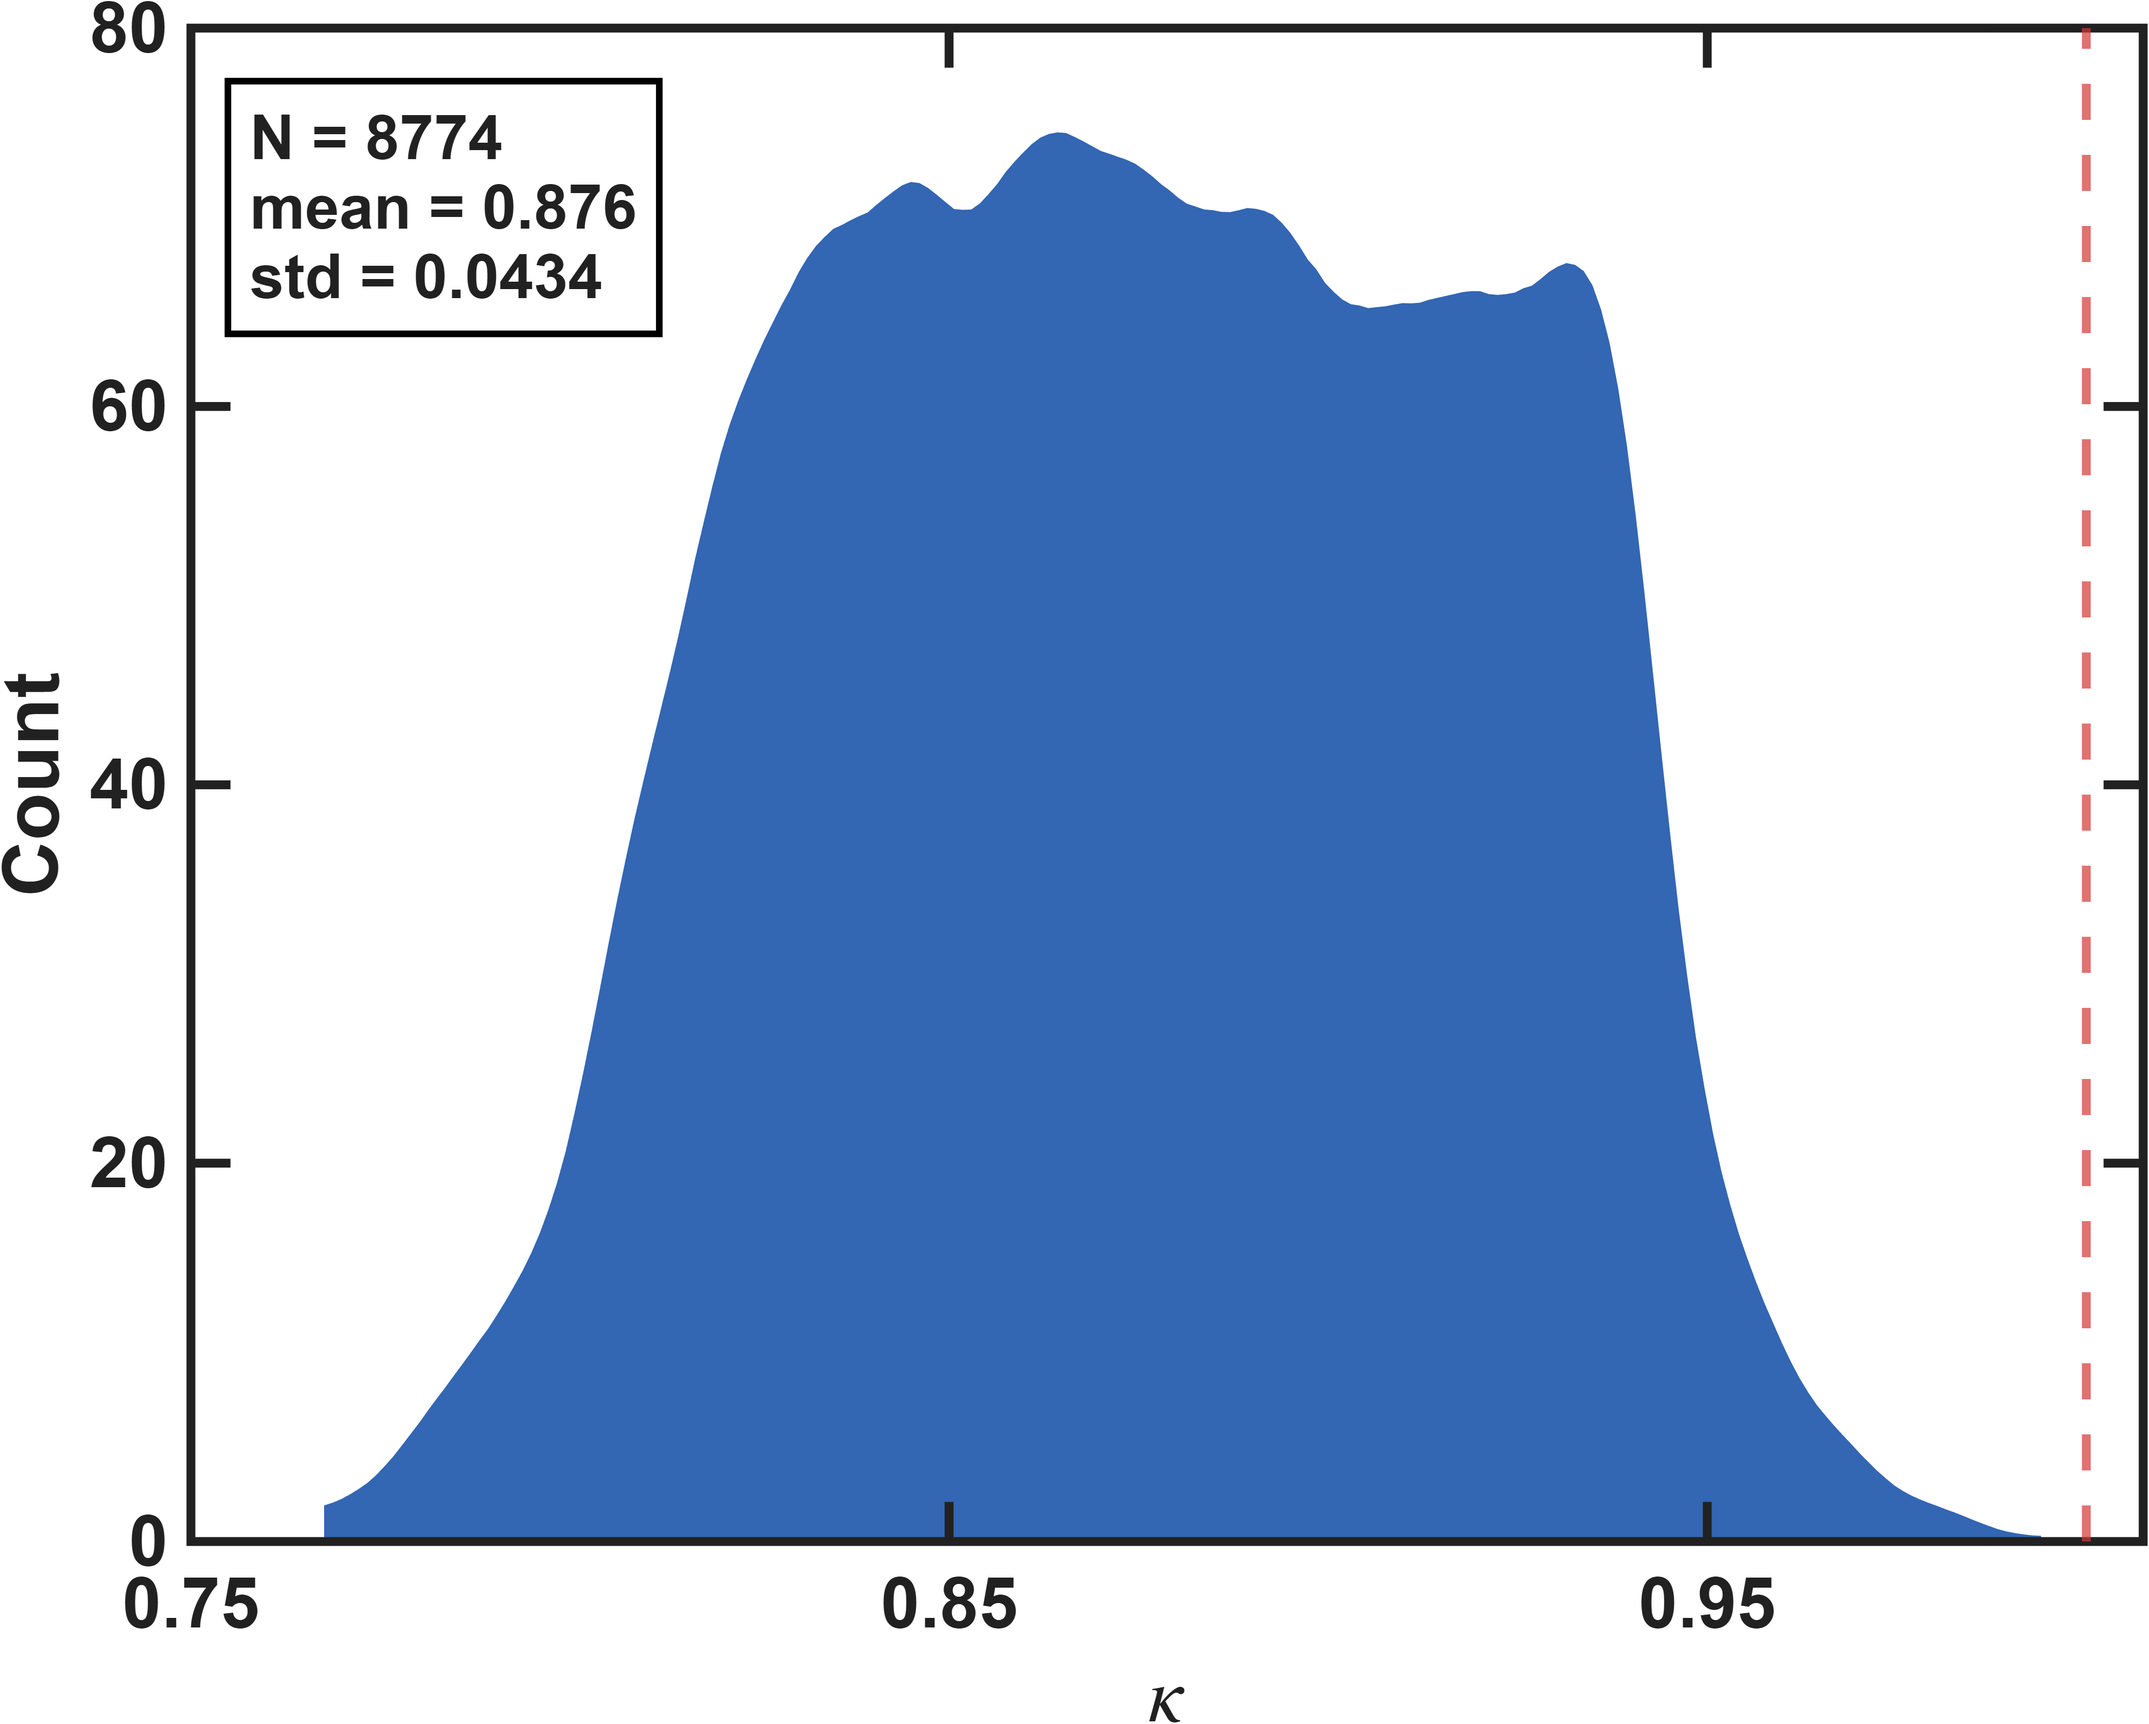
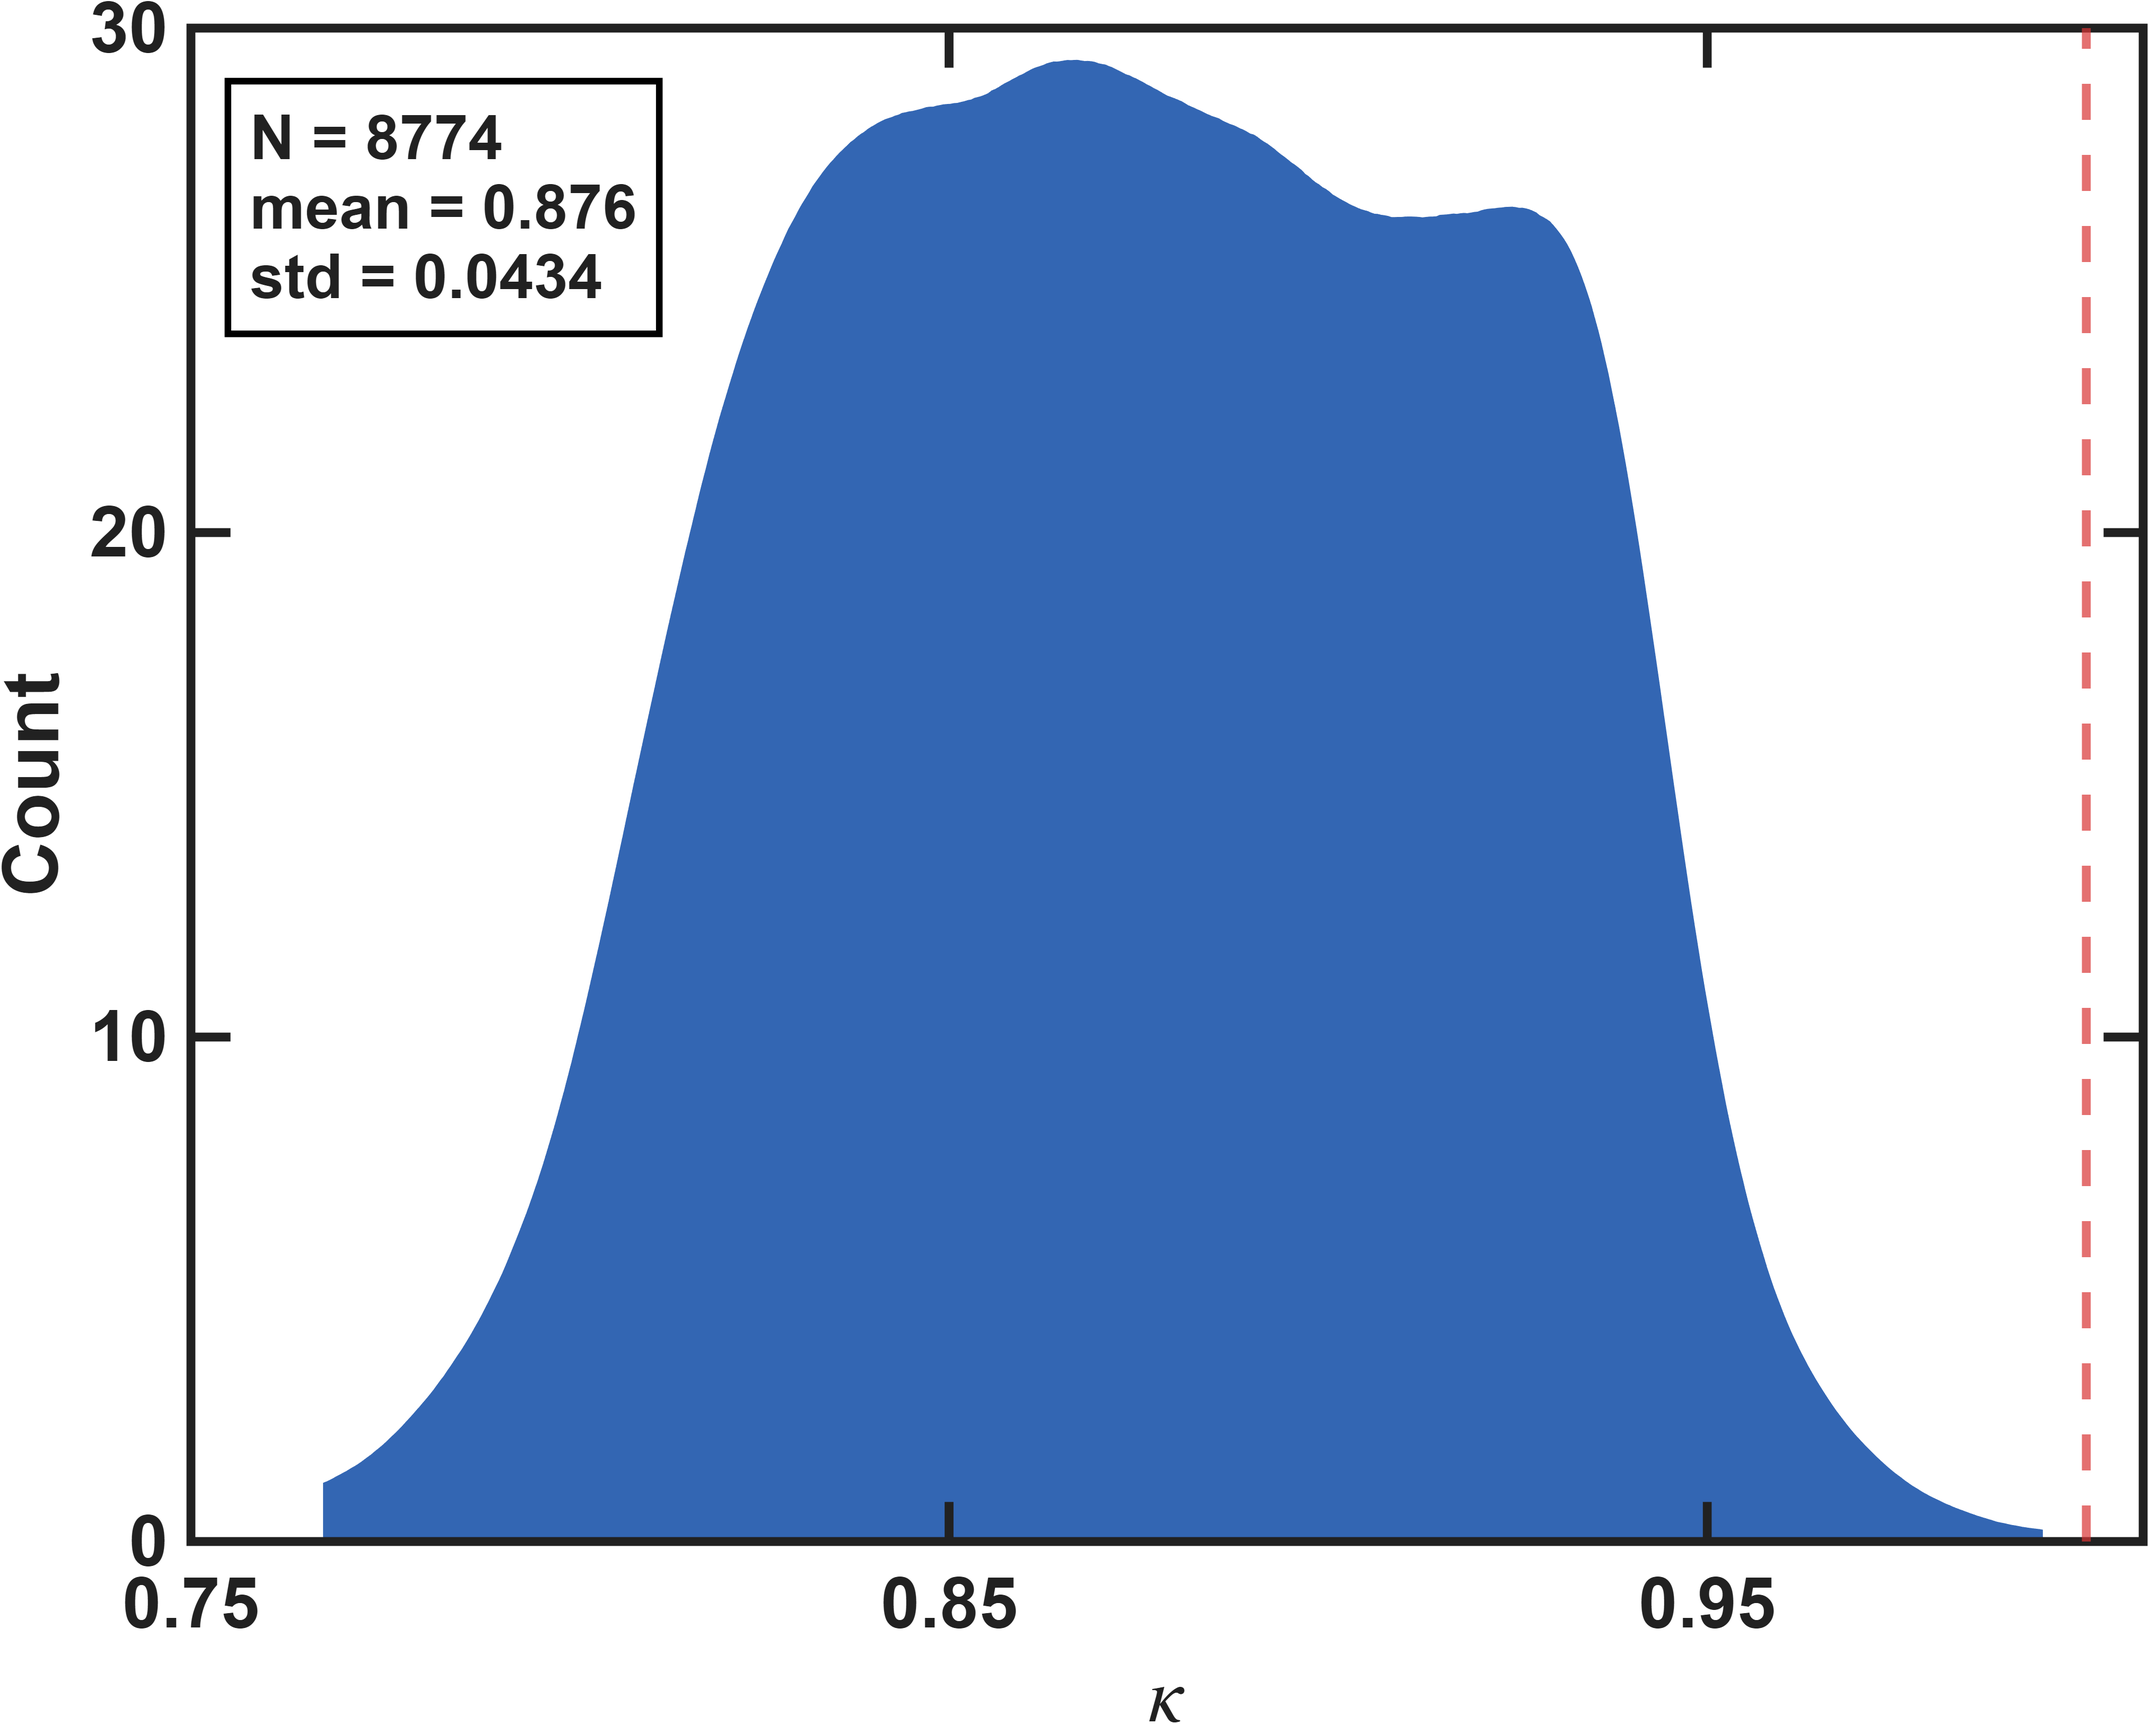
index plots: higher-res sampling + stronger smoothing (fully continuous, no visible discreteness)

diff --git a/magnetic_sim/ANSYS/main/matlab/long2016_hexapole_halfcut/Calibration_using_FEM_modeling/no_fix_dir/code/plot/plot_gain_iso_index.m b/magnetic_sim/ANSYS/main/matlab/long2016_hexapole_halfcut/Calibration_using_FEM_modeling/no_fix_dir/code/plot/plot_gain_iso_index.m
@@ -55,10 +55,10 @@ function render_hist(y, xlab, sunit, vline, out)
 % 平滑密度填充圖（連續、非離散長條）：細箱 histcounts + gaussian 平滑 → area 實心填充。
 %   左上黑框註記、Count 縱軸、vline 紅虛線（C→mean、kappa→1）。
     n = numel(y);  m = mean(y);  s = std(y);
-    NB = 200;                                                       % 細箱 → 平滑成連續密度包絡（避免離散長條）
+    NB = 500;                                                       % 高解析取樣（曲線用 500 點畫 → 平滑無折角）
     [cnt, edges] = histcounts(y, NB);
     ctr   = edges(1:end-1) + diff(edges)/2;
-    cnt_s = smoothdata(cnt, 'gaussian', max(9, round(NB/10)));      % gaussian 平滑：去 bin 噪聲、成連續線
+    cnt_s = smoothdata(cnt, 'gaussian', round(NB/6));               % 強高斯平滑：徹底去 bin 噪聲、看不出離散
     fig = figure('Color','w','Position',[100 100 760 560]);
     ax  = axes(fig);
     area(ax, ctr, cnt_s, 'FaceColor',[0.20 0.40 0.70], 'EdgeColor','none'); hold(ax,'on');   % 實心、連續
